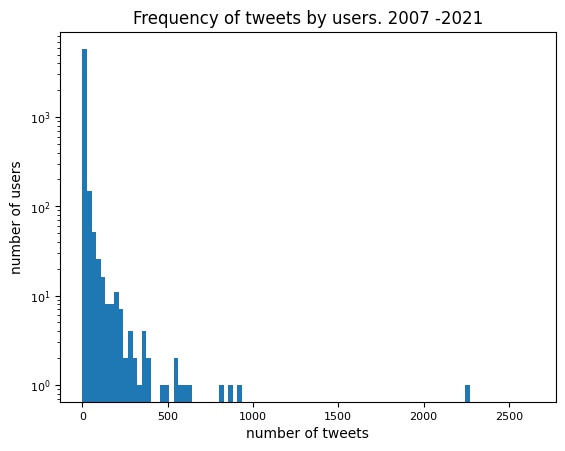
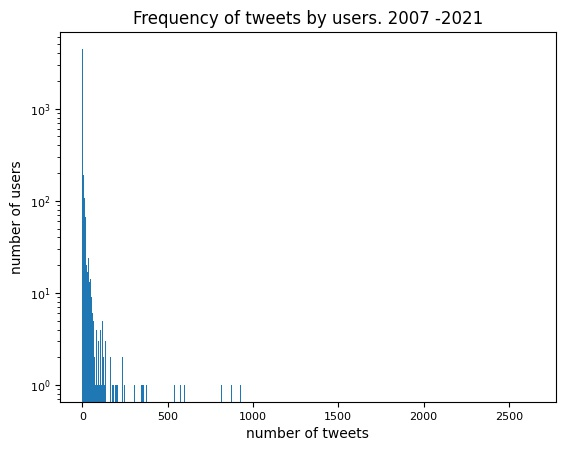
update bins

diff --git a/data/anon_identifier.py b/data/anon_identifier.py
@@ -59,16 +59,16 @@ max_key = max(tweet_occurances, key=tweet_occurances.get)
 print(max_key)
 print(tweet_occurances[max_key]) 
 
-ax.hist(tweet_occurances.values() , bins = np.linspace(1, max_number_of_tweets-2, 50))
+ax.hist(tweet_occurances.values() , bins = np.linspace(1, max_number_of_tweets-2, 1000))
 plt.yscale('log')
 plt.xscale('linear')
 plt.ylabel('number of users')
 plt.xlabel('number of tweets')
 plt.title('Frequency of tweets by users. 2007 -2021')
 
-plt.savefig('second_rendition_geolocated.jpg', bbox_inches = 'tight', pad_inches = 0.1) #0.1 is default when bbox is tight
+plt.savefig('second_rendition_data/second_rendition_geolocated.jpg', bbox_inches = 'tight', pad_inches = 0.1) #0.1 is default when bbox is tight
 
-outfile_ID = open('second_rendition_geolocated_translator.json', 'w')
+outfile_ID = open('second_rendition_data/second_rendition_geolocated_translator.json', 'w')
 json.dump(ID, outfile_ID) #writing the translation dictionary to file
 
-data.to_csv('second_rendition_geolocated_anonymous.csv', index=False)
+data.to_csv('second_rendition_data/second_rendition_geolocated_anonymous.csv', index=False)
